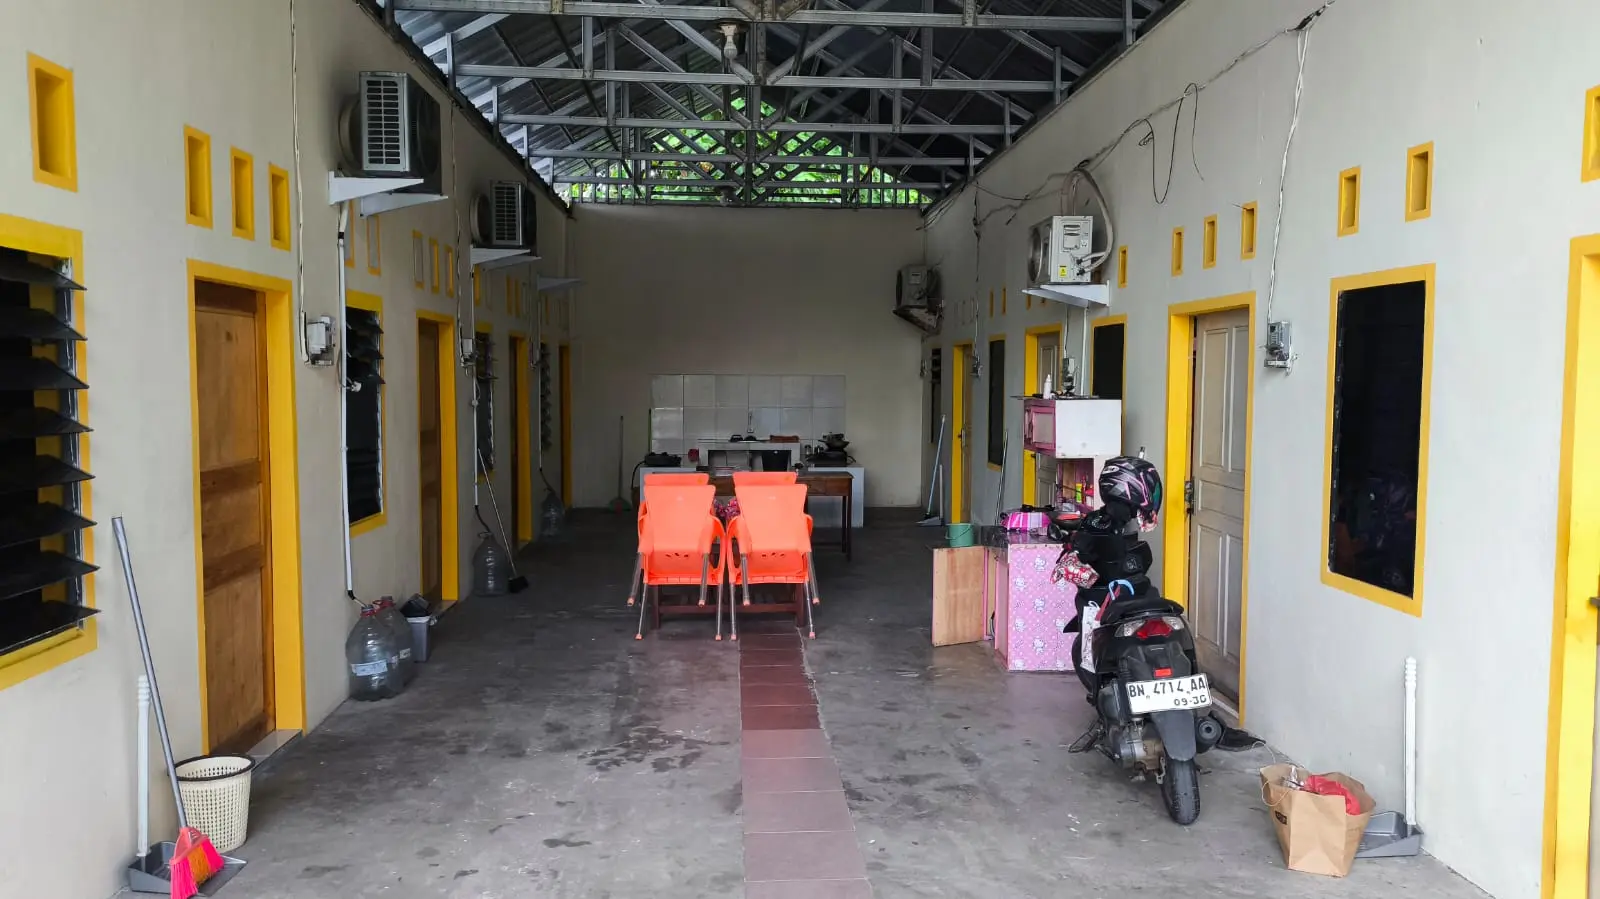
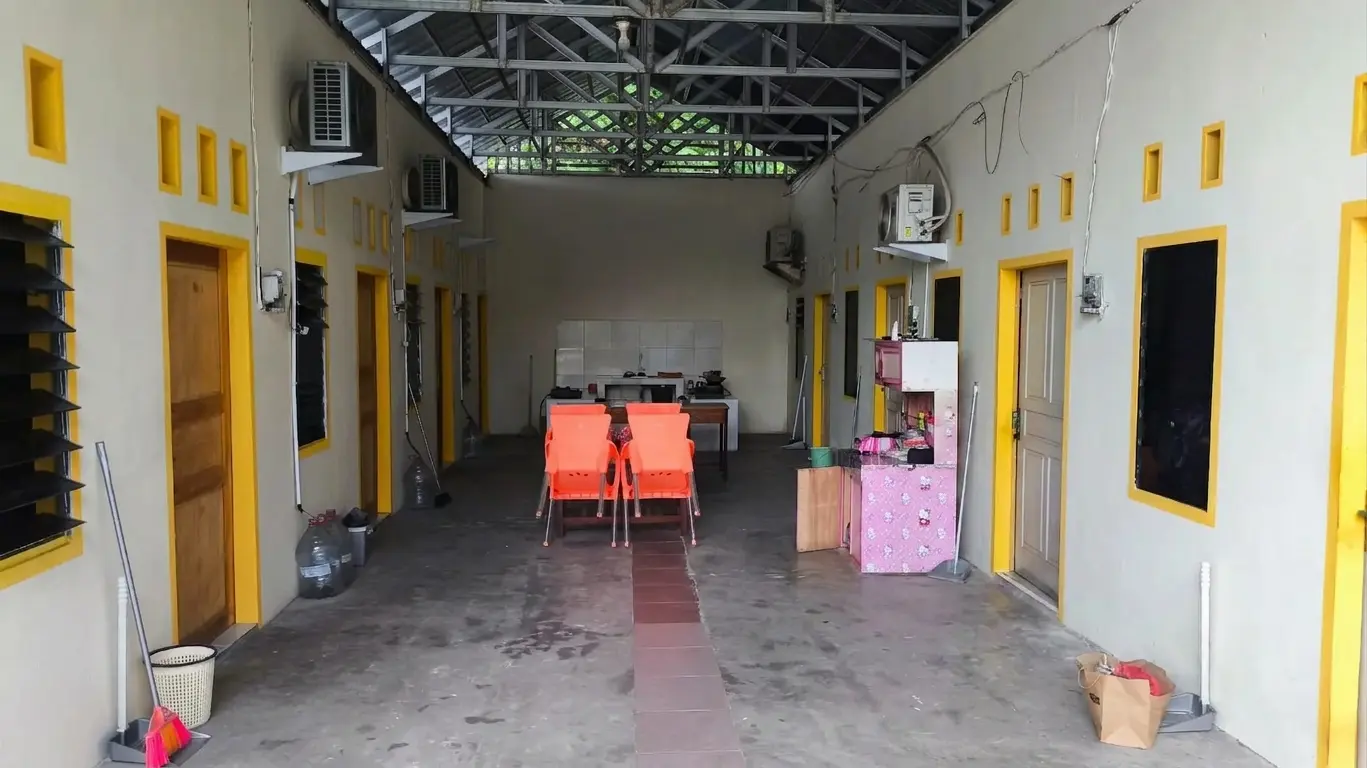
perubahan sistem real time dari sheets dan mengapus nilai default di harga kos dan stok

diff --git a/src/app/page.js b/src/app/page.js
@@ -15,11 +15,9 @@ const GOOGLE_SHEETS_CSV_URL = "https://docs.google.com/spreadsheets/d/e/2PACX-1v
 
 export default function Home() {
   const [activeTab, setActiveTab] = useState('AC');
-  const [sheetData, setSheetData] = useState({
-    AC: { stock: 0, price: 'Rp 1.500.000' },
-    'Non-AC': { stock: 0, price: 'Rp 1.000.000' },
-    Lama: { stock: 0, price: 'Rp 800.000' }
-  });
+  
+  // State diawali kosong (tanpa harga/stok bawaan kodingan)
+  const [sheetData, setSheetData] = useState({});
   const [loading, setLoading] = useState(true);
 
   // State Slider Utama Atas
@@ -33,42 +31,65 @@ export default function Home() {
   // State Slider Foto Kamar Spesifik
   const [roomImageIndex, setRoomImageIndex] = useState(0);
 
-  // FETCH DATA REAL-TIME + AUTO-REFRESH TIAP 10 DETIK
+  // FETCH DATA REAL-TIME + ANTI CACHE BROWSER
   useEffect(() => {
-    const fetchSheetData = () => {
+    const fetchSheetData = async () => {
       if (GOOGLE_SHEETS_CSV_URL && !GOOGLE_SHEETS_CSV_URL.includes("PASTE_LINK")) {
-        // Trik Anti-Cache: Menambahkan timestamp unik agar browser selalu ambil data terbaru dari Google Sheets
-        const freshUrl = `${GOOGLE_SHEETS_CSV_URL}&_t=${Date.now()}`;
+        try {
+          // Trik Anti-Cache Maksimal: timestamp + cache: 'no-store'
+          const freshUrl = `${GOOGLE_SHEETS_CSV_URL}&_t=${Date.now()}`;
+          const response = await fetch(freshUrl, { cache: 'no-store' });
+          const csvText = await response.text();
 
-        Papa.parse(freshUrl, {
-          download: true,
-          header: true,
-          complete: (results) => {
-            const parsedData = {};
-            results.data.forEach((row) => {
-              if (row['Tipe Kamar']) {
-                const key = row['Tipe Kamar'].trim();
-                parsedData[key] = {
-                  stock: parseInt(row['Stok']) || 0,
-                  price: row['Harga'] ? row['Harga'].trim() : ''
-                };
+          Papa.parse(csvText, {
+            header: true,
+            skipEmptyLines: 'greedy',
+            transformHeader: (header) => header ? header.trim() : '',
+            complete: (results) => {
+              const parsedData = {};
+              if (results && results.data) {
+                results.data.forEach((row) => {
+                  if (!row) return;
+
+                  // Cari key kolom fleksibel (abaikan huruf besar/kecil & spasi)
+                  const tipeKey = Object.keys(row).find(k => k && k.toLowerCase().includes('tipe kamar'));
+                  const stokKey = Object.keys(row).find(k => k && k.toLowerCase().includes('stok'));
+                  const hargaKey = Object.keys(row).find(k => k && k.toLowerCase().includes('harga'));
+
+                  const rawTipe = tipeKey ? row[tipeKey] : row['Tipe Kamar'];
+                  if (rawTipe) {
+                    const key = rawTipe.trim();
+                    const rawStok = stokKey ? row[stokKey] : row['Stok'];
+                    const rawHarga = hargaKey ? row[hargaKey] : row['Harga'];
+
+                    parsedData[key] = {
+                      stock: parseInt(rawStok, 10) || 0,
+                      price: rawHarga ? rawHarga.trim() : ''
+                    };
+                  }
+                });
               }
-            });
-            setSheetData((prev) => ({ ...prev, ...parsedData }));
-            setLoading(false);
-          },
-          error: () => setLoading(false)
-        });
+
+              if (Object.keys(parsedData).length > 0) {
+                setSheetData(parsedData); // Timpa data dengan data murni dari Google Sheets
+              }
+              setLoading(false);
+            },
+            error: () => setLoading(false)
+          });
+        } catch (err) {
+          setLoading(false);
+        }
       } else {
         setLoading(false);
       }
     };
 
-    // Panggil pertama kali saat komponen dimuat
+    // Panggil pertama kali saat halaman dimuat
     fetchSheetData();
 
-    // Auto-update otomatis tiap 10 detik (Real-time sync)
-    const interval = setInterval(fetchSheetData, 10000);
+    // Auto-update real-time tiap 5 detik
+    const interval = setInterval(fetchSheetData, 5000);
 
     return () => clearInterval(interval);
   }, []);
@@ -94,7 +115,6 @@ export default function Home() {
   const roomDetails = {
     AC: {
       name: 'Kamar AC (BARU)',
-      defaultPrice: 'Rp 1.500.000',
       period: '/ bulan',
       size: '3 x 5 Meter',
       electricityNote: 'Listrik menggunakan token / meteran mandiri (biaya di luar harga sewa).',
@@ -104,7 +124,6 @@ export default function Home() {
     },
     'Non-AC': {
       name: 'Kamar Non-AC (BARU)',
-      defaultPrice: 'Rp 1.000.000',
       period: '/ bulan',
       size: '3 x 5 Meter',
       electricityNote: 'Listrik menggunakan token / meteran mandiri (biaya di luar harga sewa).',
@@ -114,7 +133,6 @@ export default function Home() {
     },
     Lama: {
       name: 'Kamar Tipe Lama',
-      defaultPrice: 'Rp 800.000',
       period: '/ bulan',
       size: '3 x 5 Meter',
       electricityNote: 'Listrik menggunakan token / meteran mandiri (biaya di luar harga sewa).',
@@ -126,9 +144,9 @@ export default function Home() {
 
   const currentRoom = roomDetails[activeTab];
   const currentStock = sheetData[activeTab]?.stock ?? 0;
-  const currentPrice = sheetData[activeTab]?.price || currentRoom.defaultPrice;
+  const currentPrice = sheetData[activeTab]?.price;
 
-  // PERHITUNGAN TOTAL STOK GABUNGAN (AC + Non-AC + Lama)
+  // PERHITUNGAN TOTAL STOK GABUNGAN
   const totalStock = Object.values(sheetData).reduce((acc, curr) => acc + (curr.stock || 0), 0);
 
   useEffect(() => {
@@ -160,7 +178,8 @@ export default function Home() {
   const prevRoomImage = () => setRoomImageIndex((prev) => (prev === 0 ? currentRoom.images.length - 1 : prev - 1));
 
   const handleWhatsApp = () => {
-    const text = `Halo Admin Kost Rosa Ria Rio, saya berminat dengan ${currentRoom.name} (${currentPrice}/bulan). Apakah stok masih tersedia?`;
+    const hargaTeks = currentPrice ? `(${currentPrice}/bulan)` : '';
+    const text = `Halo Admin Kost Rosa Ria Rio, saya berminat dengan ${currentRoom.name} ${hargaTeks}. Apakah stok masih tersedia?`;
     window.open(`https://wa.me/6281294509239?text=${encodeURIComponent(text)}`, '_blank');
   };
 
@@ -463,10 +482,14 @@ export default function Home() {
                       </span>
                     </div>
 
+                    {/* HARGA DINAMIS (SAAT MEMUAT / SUDAH DAPAT DARI GOOGLE SHEETS) */}
                     <div className="flex items-baseline gap-1.5 mt-1">
-                      {/* HARGA DINAMIS DARI GOOGLE SHEETS */}
-                      <span className="text-2xl sm:text-3xl font-semibold text-[#8C5E3C]">{currentPrice}</span>
-                      <span className="text-stone-400 text-xs sm:text-sm">{currentRoom.period}</span>
+                      <span className="text-2xl sm:text-3xl font-semibold text-[#8C5E3C]">
+                        {loading || !currentPrice ? 'Mengecek harga...' : currentPrice}
+                      </span>
+                      {!loading && currentPrice && (
+                        <span className="text-stone-400 text-xs sm:text-sm">{currentRoom.period}</span>
+                      )}
                     </div>
 
                     {/* BADGE STOK PADA DETAIL KAMAR */}
@@ -496,7 +519,7 @@ export default function Home() {
                       )}
                     </div>
 
-                    {/* INFORMASI LISTRIK (BAHASA HALUS & SOPAN) */}
+                    {/* INFORMASI LISTRIK */}
                     <div className="mt-3 inline-flex items-center gap-2 px-3 py-1.5 bg-amber-50/80 border border-amber-200/70 rounded-xl text-[11px] sm:text-xs text-amber-900 font-medium">
                       <Zap size={14} className="text-amber-600 shrink-0" />
                       <span>{currentRoom.electricityNote}</span>
@@ -537,7 +560,7 @@ export default function Home() {
 
               </div>
 
-              {/* PERATURAN KOS (DIPINDAHKAN KE ATAS TOMBOL WA) */}
+              {/* PERATURAN KOS */}
               <div className="mt-4 mb-4 p-4 sm:p-5 bg-stone-50/90 border border-stone-200/80 rounded-xl sm:rounded-2xl">
                 <h3 className="text-xs sm:text-sm font-semibold text-stone-900 mb-3 flex items-center gap-2 border-b border-stone-200/60 pb-2">
                   <ShieldAlert size={16} className="text-[#A67B5B]" /> Peraturan Kos
@@ -671,7 +694,7 @@ export default function Home() {
       {/* FLOATING WHATSAPP BUTTON */}
       <a
         href={`https://wa.me/6281294509239?text=${encodeURIComponent(
-          `Halo Admin Kost Rosa Ria Rio, saya berminat dengan ${currentRoom.name} (${currentPrice}/bulan). Apakah stok masih tersedia?`
+          `Halo Admin Kost Rosa Ria Rio, saya berminat dengan ${currentRoom.name} ${currentPrice ? `(${currentPrice}/bulan)` : ''}. Apakah stok masih tersedia?`
         )}`}
         target="_blank" rel="noopener noreferrer"
         className="fixed bottom-5 right-5 sm:bottom-6 sm:right-6 z-40 flex items-center gap-2.5 px-4 py-3 sm:px-4 sm:py-3 bg-[#25D366] hover:bg-[#1EBE57] text-white rounded-full shadow-xl hover:shadow-2xl transition-all duration-300 hover:scale-105 border border-white/20 group cursor-pointer"
